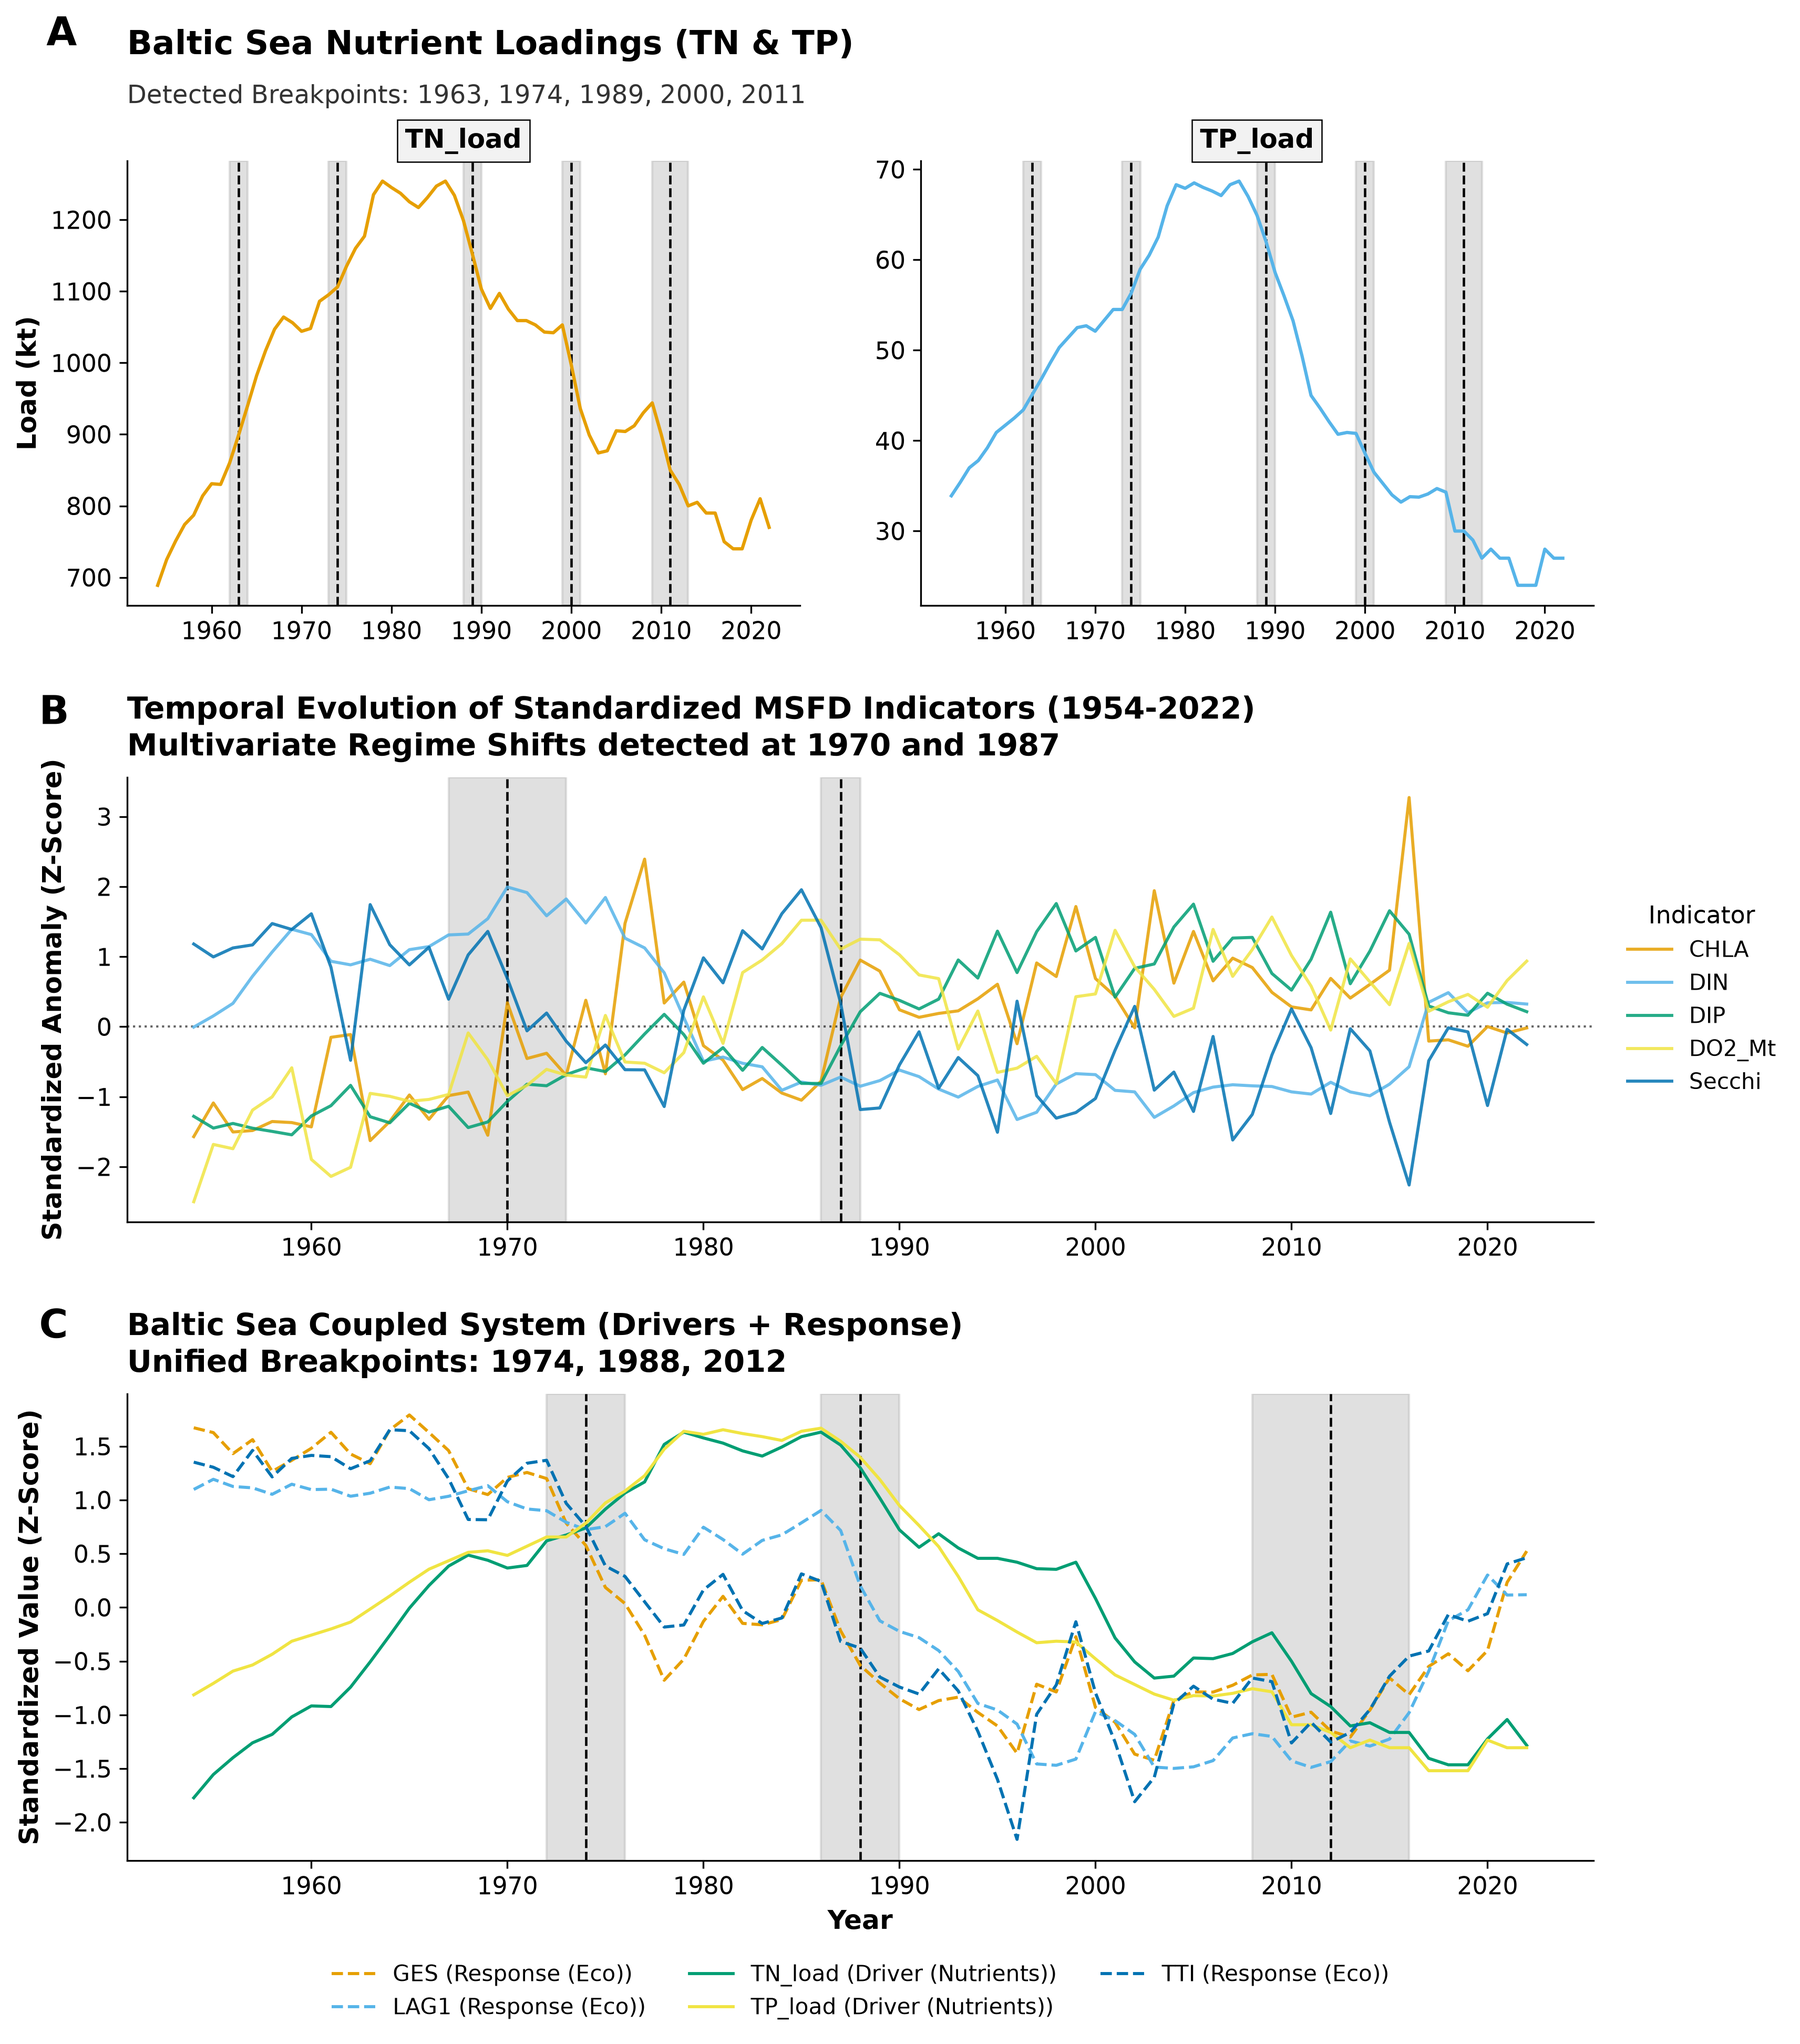
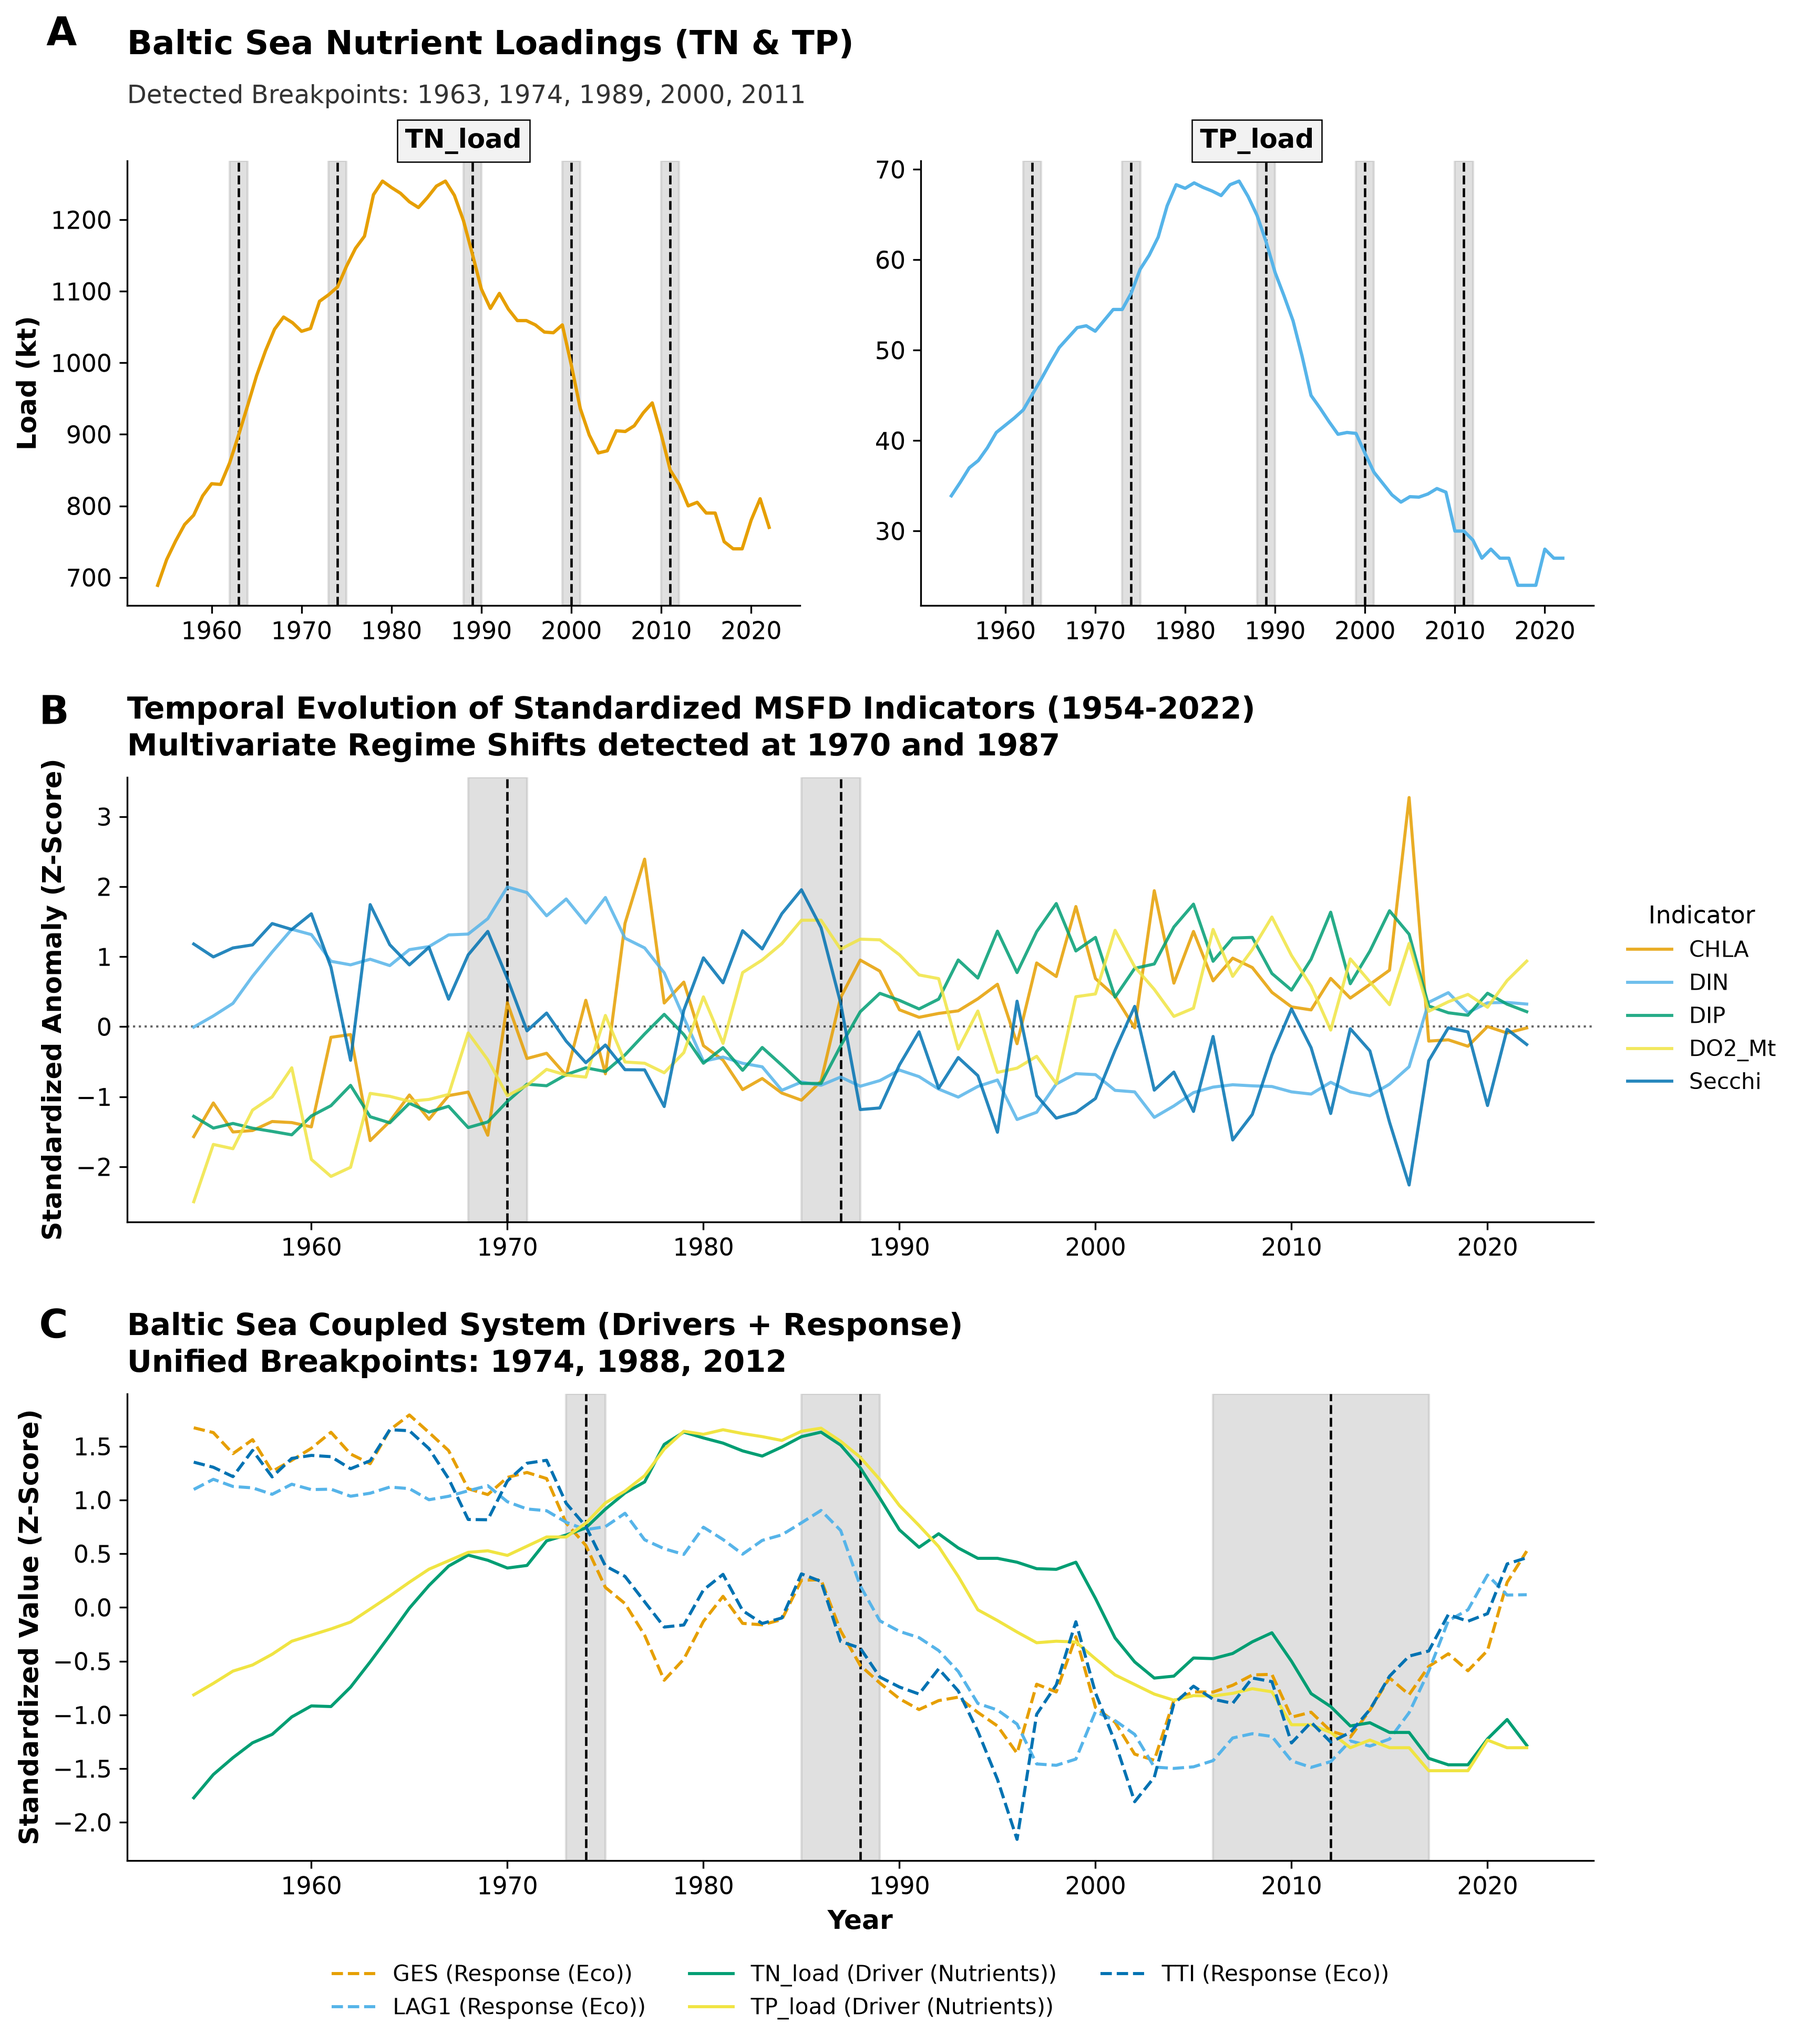
Breakpoint CI algorithm updated to match R version

diff --git a/Plot_Fig1_Final_TNTP_MSFD_TTI_vars_breakpoints_2026_06_11.py b/Plot_Fig1_Final_TNTP_MSFD_TTI_vars_breakpoints_2026_06_11.py
@@ -13,6 +13,7 @@ import matplotlib
 matplotlib.use("Agg")
 import matplotlib.pyplot as plt
 from scipy.stats import norm
+from scipy.special import log_ndtr
 from scipy.optimize import brentq
 
 # --- 1. GLOBAL SETTINGS ---
@@ -27,20 +28,24 @@ def r_scale(df_or_arr):
     """Replicates R's scale() with sample standard deviation (ddof=1)."""
     return (df_or_arr - np.mean(df_or_arr, axis=0)) / np.std(df_or_arr, axis=0, ddof=1)
 
-def _bai_cdf(x):
-    """Exact CDF of the Bai (1997) two-sided Brownian motion argmax distribution."""
+def _pargmaxV(x, phi1=1.0, phi2=1.0, xi=1.0):
+    """Exact CDF of R's strucchange::pargmaxV (Bai 1997 heterogeneous two-sided Brownian motion)."""
     if x == 0:
         return 0.5
     if x < 0:
-        return 1.0 - _bai_cdf(-x)
+        return 1.0 - _pargmaxV(-x, phi2, phi1, 1.0 / xi)
+    phi = xi * (phi2 / phi1)
     s = np.sqrt(x)
-    return 1.0 + s * norm.pdf(0.5 * s) - (2.5 + 0.5 * x) * norm.cdf(-0.5 * s) + 1.5 * np.exp(x) * norm.cdf(-1.5 * s)
+    term1 = np.sqrt(x / (2.0 * np.pi)) * np.exp(-x / 8.0)
+    log_term2 = np.log((phi + 0.5) / phi) + (phi * (phi + 1.0) * x / 2.0) + log_ndtr(-(phi + 0.5) * s)
+    term2 = np.exp(log_term2)
+    term3 = ((2.0 * phi + 0.5) / phi + 0.5 * x) * norm.cdf(-0.5 * s)
+    return 1.0 + term1 + term2 - term3
 
 def get_bp_ci_mapped(ts_matrix, years_vector, h=0.15, max_breaks=5, level=0.95):
     """
-    Replicates R's strucchange::breakpoints(ts_data ~ 1) and confint(bp, level = 0.95).
-    Note: R's breakpoints.formula(ts_matrix ~ 1) evaluates the primary response column
-    via dynamic programming to minimize RSS and selects optimal m via BIC.
+    Exact replica of R's strucchange::breakpoints(ts_data ~ 1) and confint(bp, level = 0.95)
+    with default heterogeneous segment error variances (het.err = TRUE).
     """
     arr = np.asarray(ts_matrix, dtype=float)
     y = arr[:, 0] if arr.ndim > 1 else arr
@@ -85,25 +90,29 @@ def get_bp_ci_mapped(ts_matrix, years_vector, h=0.15, max_breaks=5, level=0.95):
     best_m = min(bics, key=bics.get)
     opt_breaks = breaks_dict[best_m]  # 1-based indices
 
-    # Calculate 95% confidence intervals (Bai 1997)
-    alpha_tail = 1.0 - (1.0 - level) / 2.0
-    q_crit = brentq(lambda x: _bai_cdf(x) - alpha_tail, 0.0, 50.0)
-
+    # Calculate 95% confidence intervals (Bai 1997 with het.err = TRUE)
+    a2 = 1.0 - (1.0 - level) / 2.0
     bounds = [0] + opt_breaks + [n]
     means = [np.mean(y[bounds[i]:bounds[i + 1]]) for i in range(best_m + 1)]
-    sigma2 = cost[best_m, n] / (n - (best_m + 1))
+    omegas = [
+        np.sum((y[bounds[i]:bounds[i + 1]] - means[i]) ** 2) / len(y[bounds[i]:bounds[i + 1]])
+        for i in range(best_m + 1)
+    ]
 
     rows = []
     for i, b_1based in enumerate(opt_breaks):
         delta = means[i + 1] - means[i]
-        half_w = int(np.ceil(q_crit * sigma2 / (delta ** 2)))
-        b_idx = b_1based - 1
-        low_idx = max(0, b_idx - half_w)
-        high_idx = min(n - 1, b_idx + half_w)
+        scale1 = omegas[i] / (delta ** 2)
+        scale2 = omegas[i + 1] / (delta ** 2)
+        q_pos = brentq(lambda x: _pargmaxV(x, omegas[i], omegas[i + 1], 1.0) - a2, 0.0, 1000.0)
+        q_neg = brentq(lambda x: _pargmaxV(x, omegas[i + 1], omegas[i], 1.0) - a2, 0.0, 1000.0)
+
+        low_idx = max(0, b_1based - int(np.ceil(q_pos * scale2)) - 1)
+        up_idx = min(n - 1, b_1based + int(np.ceil(q_neg * scale1)) - 1)
         rows.append({
             "Lower": int(years_vector[low_idx]),
-            "Break": int(years_vector[b_idx]),
-            "Upper": int(years_vector[high_idx])
+            "Break": int(years_vector[b_1based - 1]),
+            "Upper": int(years_vector[up_idx])
         })
     return pd.DataFrame(rows)
 
@@ -174,7 +183,6 @@ def main():
         ax_b.axvline(row["Break"], color="black", linestyle="--", linewidth=1.1, zorder=2)
     ax_b.axhline(0, color="black", linestyle=":", alpha=0.6, linewidth=1.0, zorder=2)
 
-    # Sort indicators alphabetically to match ggplot2 default factor ordering: CHLA, DIN, DIP, DO2_Mt, Secchi
     ind_order = sorted([v.replace("_ALL", "") for v in msfd_vars])
     for i, var in enumerate(ind_order):
         ax_b.plot(msfd_scaled["Year"], msfd_scaled[var], label=var, color=OKABE_ITO[i], linewidth=1.4, alpha=0.85, zorder=3)
@@ -194,7 +202,7 @@ def main():
         ax_c.axvspan(row["Lower"], row["Upper"], color="#B3B3B3", alpha=0.4, zorder=1)
         ax_c.axvline(row["Break"], color="black", linestyle="--", linewidth=1.1, zorder=2)
 
-    metric_order = sorted(coupled_names)  # GES, LAG1, TN_load, TP_load, TTI
+    metric_order = sorted(coupled_names)
     for i, m in enumerate(metric_order):
         ls = "-" if m in ["TN_load", "TP_load"] else "--"
         lbl_type = "Driver (Nutrients)" if m in ["TN_load", "TP_load"] else "Response (Eco)"
